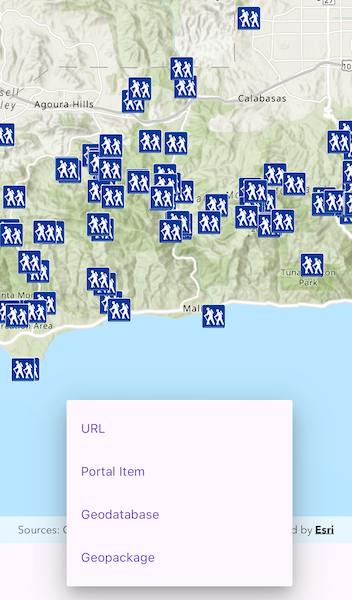
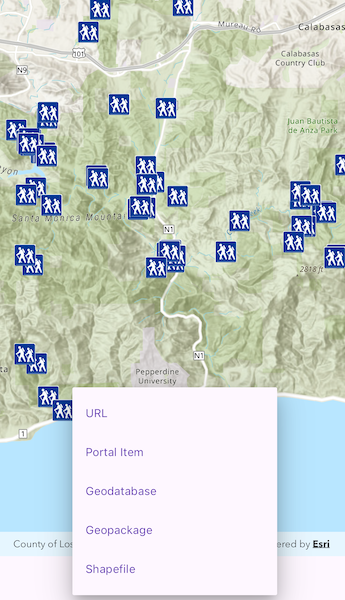
adds the shape file impls

diff --git a/lib/samples/add_feature_layers/add_feature_layers.dart b/lib/samples/add_feature_layers/add_feature_layers.dart
@@ -24,7 +24,7 @@ import '../../utils/sample_data.dart';
 import '../../utils/sample_state_support.dart';
 
 // Create an enumeration to define the feature layer sources.
-enum Source { url, portalItem, geodatabase, geopackage }
+enum Source { url, portalItem, geodatabase, geopackage, shapefile }
 
 class AddFeatureLayers extends StatefulWidget {
   const AddFeatureLayers({super.key});
@@ -73,6 +73,11 @@ class _AddFeatureLayersState extends State<AddFeatureLayers>
         onTap: loadGeopackage,
         value: Source.geopackage,
         child: const Text('Geopackage'),
+      ),
+      DropdownMenuItem(
+        onTap: loadShapefile,
+        value: Source.shapefile,
+        child: const Text('Shapefile'),
       ),
     ]);
   }
@@ -241,6 +246,35 @@ class _AddFeatureLayersState extends State<AddFeatureLayers>
         latitude: 39.7294,
         longitude: -104.8319,
         scale: 577790.554289,
+      ),
+    );
+  }
+
+  /// Load a feature layer with a local shapefile.
+  void loadShapefile() async {
+    // Download the sample data.
+    await downloadSampleData(['15a7cbd3af1e47cfa5d2c6b93dc44fc2']);
+    // Get the application documents directory.
+    final appDir = await getApplicationDocumentsDirectory();
+    // Get the Shapefile from the download resource.
+    final shapefile = File(
+      '${appDir.absolute.path}/ScottishWildlifeTrust_reserves/ScottishWildlifeTrust_ReserveBoundaries_20201102.shp',
+    );
+    // Create a feature table from the Shapefile URI.
+    final shapefileFeatureTable =
+        ShapefileFeatureTable.withFileUri(shapefile.uri);
+    // Create a feature layer for the Shapefile feature table.
+    final shapefileFeatureLayer =
+        FeatureLayer.withFeatureTable(shapefileFeatureTable);
+    // Clear the operational layers and add the feature layer to the map.
+    _map.operationalLayers.clear();
+    _map.operationalLayers.add(shapefileFeatureLayer);
+    // Set the viewpoint to the feature layer.
+    _mapViewController.setViewpoint(
+      Viewpoint.withLatLongScale(
+        latitude: 56.641344,
+        longitude: -3.889066,
+        scale: 6e6,
       ),
     );
   }
